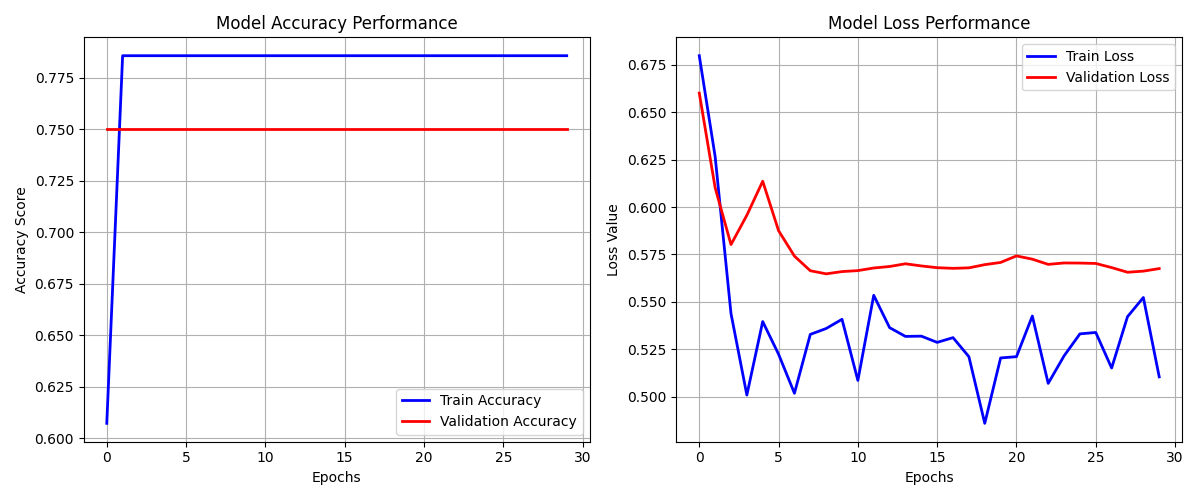
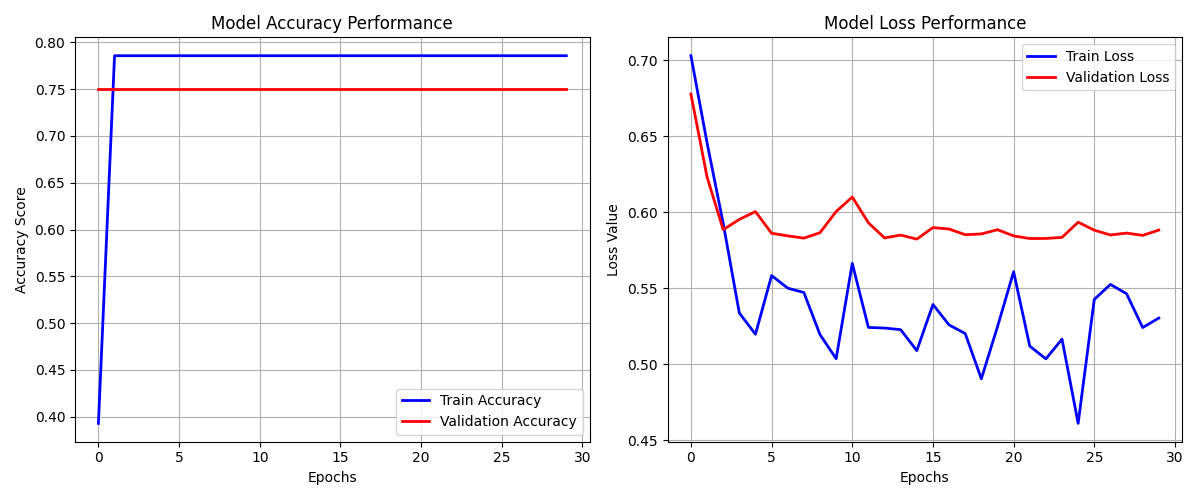
Test Phase

diff --git a/src/app.py b/src/app.py
@@ -1,0 +1,178 @@
+import os
+import cv2
+import numpy as np
+import tensorflow as tf
+import mediapipe as mp
+from collections import deque
+from mediapipe.tasks import python
+from mediapipe.tasks.python import vision
+
+# ----------------------------------------------------
+# PARAMETERS & UI CONFIGURATIONS
+# ----------------------------------------------------
+MAX_SEQUENCE_LENGTH = 100  # 100 frames sequence (approx. 4-5 seconds buffer)
+EAR_THRESHOLD = 0.23       # Threshold for closed eyes
+MAR_THRESHOLD = 0.45       # Threshold for yawning
+
+# MediaPipe Face Mesh Landmark Indices
+LEFT_EYE = [362, 385, 387, 263, 373, 380]
+RIGHT_EYE = [33, 160, 158, 133, 153, 144]
+MOUTH = [13, 14, 78, 308, 81, 178, 82, 311]
+
+# ----------------------------------------------------
+# FEATURE CALCULATION FUNCTIONS
+# ----------------------------------------------------
+def calculate_ear(landmarks, eye_indices):
+    points = []
+    for idx in eye_indices:
+        lm = landmarks[idx]
+        points.append(np.array([lm.x, lm.y]))
+    A = np.linalg.norm(points[1] - points[5])
+    B = np.linalg.norm(points[2] - points[4])
+    C = np.linalg.norm(points[0] - points[3])
+    return (A + B) / (2.0 * C)
+
+def calculate_mar(landmarks, mouth_indices):
+    points = []
+    for idx in mouth_indices:
+        lm = landmarks[idx]
+        points.append(np.array([lm.x, lm.y]))
+    v_dist = np.linalg.norm(points[0] - points[1])
+    h_dist = np.linalg.norm(points[2] - points[3])
+    return v_dist / h_dist
+
+# ----------------------------------------------------
+# MAIN REAL-TIME MONITORING INTERFACE
+# ----------------------------------------------------
+def main():
+    script_dir = os.path.dirname(os.path.abspath(__file__))
+    
+    # 1. Load the Pre-Trained LSTM Brain (.h5 model weights)
+    # Check for both standard name or placeholder abc.h5
+    model_path = os.path.join(script_dir, "../models/drowsiness_lstm_model.h5")
+    if not os.path.exists(model_path):
+        model_path = os.path.join(script_dir, "../models/abc.h5") # Fallback placeholder
+        
+    if not os.path.exists(model_path):
+        print(f"Error: Trained model weights file not found at models folder!")
+        return
+        
+    model = tf.keras.models.load_model(model_path)
+    print(f"SUCCESS: Deep Learning LSTM Engine Loaded from: {os.path.basename(model_path)}")
+
+    # 2. Configure Modern MediaPipe Face Mesh Options
+    task_model_path = os.path.join(script_dir, "face_landmarker.task")
+    base_options = python.BaseOptions(model_asset_path=task_model_path)
+    options = vision.FaceLandmarkerOptions(
+        base_options=base_options,
+        output_face_blendshapes=False,
+        output_facial_transformation_matrixes=False,
+        num_faces=1
+    )
+
+    # 3. Setup Rolling Memory Queue Buffer
+    frame_buffer = deque(maxlen=MAX_SEQUENCE_LENGTH)
+    
+    # Activate the primary computer webcam (0 = default internal camera)
+    cap = cv2.VideoCapture(0)
+    print("Webcam stream channel open. Launching UI overlay window...")
+
+    with vision.FaceLandmarker.create_from_options(options) as landmarker:
+        while cap.isOpened():
+            ret, frame = cap.read()
+            if not ret:
+                break
+
+            # Mirror-flip the screen frame for a natural selfie perspective
+            frame = cv2.flip(frame, 1)
+            h, w, _ = frame.shape
+
+            # 4. QR-Scanner Style Interface Calculations (Member 4 Task Focus)
+            # Define central bounding box coordinates for the face alignment
+            box_x1, box_y1 = int(w * 0.28), int(h * 0.18)
+            box_x2, box_y2 = int(w * 0.72), int(h * 0.82)
+            
+            # Default State Parameters
+            ui_color = (255, 255, 0)  # Cyan color for default scanning
+            status_text = "SCANNING PROFILE..."
+            
+            # Preprocess current frame for MediaPipe tracking
+            rgb_frame = cv2.cvtColor(frame, cv2.COLOR_BGR2RGB)
+            mp_image = mp.Image(image_format=mp.ImageFormat.SRGB, data=rgb_frame)
+            detection_result = landmarker.detect(mp_image)
+
+            if detection_result.face_landmarks:
+                landmarks = detection_result.face_landmarks[0]
+
+                # Extract live scalar numbers
+                left_ear = calculate_ear(landmarks, LEFT_EYE)
+                right_ear = calculate_ear(landmarks, RIGHT_EYE)
+                avg_ear = (left_ear + right_ear) / 2.0
+                mar = calculate_mar(landmarks, MOUTH)
+
+                # Push metrics to our live rolling buffer
+                frame_buffer.append([avg_ear, mar])
+
+                # 5. Continuous Inference Pipeline Logic
+                if len(frame_buffer) == MAX_SEQUENCE_LENGTH:
+                    # Convert rolling buffer queue to standard NumPy input tensor
+                    input_data = np.array(frame_buffer)
+                    input_data = np.expand_dims(input_data, axis=0)  # Shape becomes (1, 100, 2)
+
+                    # Predict probability outcome via Keras Engine
+                    prediction = model.predict(input_data, verbose=0)[0][0]
+
+                    # Smooth UI Transition depending on Model Output
+                    # Model prediction value validation ranges from 0.0 to 1.0
+                    if prediction < 0.35:
+                        ui_color = (0, 255, 0)      # Safe Green BGR
+                        status_text = "QUALITY: GOOD | STATUS: HIGHLY ACTIVE"
+                    elif 0.35 <= prediction <= 0.70:
+                        ui_color = (0, 255, 255)    # Warning Yellow BGR (0, 255, 255)
+                        status_text = "QUALITY: NORMAL | ALERT: MODERATE FATIGUE"
+                    else:
+                        ui_color = (0, 0, 255)      # Critical Danger Red BGR
+                        status_text = "QUALITY: POOR | CRITICAL: HIGH DROWSINESS"
+                else:
+                    # Buffering State UI (First 5 seconds when camera turns on)
+                    progress = int((len(frame_buffer) / MAX_SEQUENCE_LENGTH) * 100)
+                    status_text = f"ANALYZING VEHICLE ENVIRONMENT... {progress}%"
+                    ui_color = (255, 191, 0)  # Yellow-Blue Warning shade
+
+                # Render numerical metrics clearly on screen corner
+                cv2.putText(frame, f"LIVE EAR: {avg_ear:.2f}", (30, 45), cv2.FONT_HERSHEY_SIMPLEX, 0.6, (255, 255, 255), 2)
+                cv2.putText(frame, f"LIVE MAR: {mar:.2f}", (30, 75), cv2.FONT_HERSHEY_SIMPLEX, 0.6, (255, 255, 255), 2)
+            else:
+                status_text = "FACE PROFILE OUT OF FRAME"
+                ui_color = (0, 140, 255)  # Alert Orange color
+
+            # 6. UI Overlays Rendering (Drawing the components)
+            # Draw the Scanner Guide Rectangle box
+            cv2.rectangle(frame, (box_x1, box_y1), (box_x2, box_y2), ui_color, 2)
+            
+            # Corner design elements for the "QR-Scanner" look
+            corner_len = 25
+            # Top-Left Corner accents
+            cv2.line(frame, (box_x1, box_y1), (box_x1 + corner_len, box_y1), ui_color, 5)
+            cv2.line(frame, (box_x1, box_y1), (box_x1, box_y1 + corner_len), ui_color, 5)
+            # Bottom-Right Corner accents
+            cv2.line(frame, (box_x2, box_y2), (box_x2 - corner_len, box_y2), ui_color, 5)
+            cv2.line(frame, (box_x2, box_y2), (box_x2, box_y2 - corner_len), ui_color, 5)
+
+            # Bottom Status Bar banner block panel
+            cv2.rectangle(frame, (0, h - 50), (w, h), ui_color, cv2.FILLED)
+            cv2.putText(frame, status_text, (20, h - 18), cv2.FONT_HERSHEY_SIMPLEX, 0.65, (0, 0, 0), 2)
+
+            # Display the interactive final rendering output
+            cv2.imshow("Real-Time Sleep Quality Scanner Dashboard", frame)
+
+            # Press Keyboard key 'q' anytime to safely kill camera stream pipeline
+            if cv2.waitKey(1) & 0xFF == ord('q'):
+                break
+
+    cap.release()
+    cv2.destroyAllWindows()
+    print("Webcam device pipeline closed safely.")
+
+if __name__ == "__main__":
+    main()

diff --git a/src/train.py b/src/train.py
@@ -1,0 +1,144 @@
+import os
+import numpy as np
+from sklearn.model_selection import train_test_split
+import keras
+from keras.utils import pad_sequences
+from keras.models import Sequential
+from keras.layers import LSTM, Dense, Dropout
+import matplotlib.pyplot as plt  # New import for validation curves
+
+
+# Configurable constants
+DATA_DIR = "data/processed"
+MAX_SEQUENCE_LENGTH = 100  # Normalizing all video inputs to 100 frames
+
+
+def load_and_preprocess_data():
+    X = []
+    y = []
+   
+    categories = {'active': 0, 'sleepy': 1}
+   
+    for category, label in categories.items():
+        category_path = os.path.join(DATA_DIR, category)
+       
+        if not os.path.exists(category_path):
+            print(f"Warning: Folder {category_path} not found. Skipping.")
+            continue
+           
+        for file_name in os.listdir(category_path):
+            if file_name.endswith('.npy'):
+                file_path = os.path.join(category_path, file_name)
+               
+                # Load the mathematical sequence (shape: [num_frames, 2])
+                sequence = np.load(file_path)
+               
+                X.append(sequence)
+                y.append(label)
+               
+    if len(X) == 0:
+        raise ValueError("No .npy data found! Please run preprocess.py first.")
+       
+    # Sequence Padding (Post padding with zeros if sequence is short)
+    X_padded = pad_sequences(X, maxlen=MAX_SEQUENCE_LENGTH, padding='post', dtype='float32')
+    y = np.array(y)
+   
+    print(f"Total samples loaded: {len(X_padded)}")
+    print(f"Shape of X after padding: {X_padded.shape}")  # Expected: (samples, 100, 2)
+   
+    # Train-Test Split (80% Train, 20% Test)
+    X_train, X_test, y_train, y_test = train_test_split(X_padded, y, test_size=0.2, random_state=42, stratify=y)
+   
+    return X_train, X_test, y_train, y_test
+
+
+def build_lstm_model(input_shape):
+    """
+    Designs the LSTM Network Layout (The Brain)
+    """
+    model = Sequential([
+        # LSTM Layer 1: Captures temporal sequence of EAR/MAR
+        LSTM(units=64, input_shape=input_shape, return_sequences=True),
+        Dropout(0.2),  # Prevents overfitting
+       
+        # LSTM Layer 2: Deeper understanding of patterns over time
+        LSTM(units=32, return_sequences=False),
+        Dropout(0.2),
+       
+        # Dense Layers for classification logic simplify
+        Dense(units=16, activation='relu'),
+       
+        # Output Layer: Sigmoid gives probability between 0 (Active) and 1 (Sleepy)
+        Dense(units=1, activation='sigmoid')
+    ])
+   
+    # Compile the model
+    model.compile(
+        optimizer='adam',
+        loss='binary_crossentropy',
+        metrics=['accuracy']
+    )
+   
+    return model
+
+
+if __name__ == "__main__":
+    # Step 1: Load and split data in RAM
+    X_train, X_test, y_train, y_test = load_and_preprocess_data()
+   
+    # Step 2: Build the Network Layout
+    input_shape = (X_train.shape[1], X_train.shape[2]) # (100, 2)
+    model = build_lstm_model(input_shape)
+   
+    print("\n--- LSTM Model Structure Summary ---")
+    model.summary()
+   
+    # Step 3: Start Real Training on RAM
+    print("\nStarting Model Training...")
+    history = model.fit(
+        X_train, y_train,
+        validation_data=(X_test, y_test),
+        epochs=30,          # Loop tracker over dataset
+        batch_size=4,       # Best for 36 samples
+        verbose=1
+    )
+   
+    # Step 4: Save permanently to Hard Disk!
+    os.makedirs("models", exist_ok=True)
+    model_save_path = "models/drowsiness_lstm_model.h5"
+    model.save(model_save_path)
+    print(f"\nSUCCESS!!! Trained model permanently saved at: {model_save_path}")
+   
+    # Step 5: Plot Accuracy and Loss Curves (Validation Curve mapping)
+    print("\nPlotting Accuracy and Loss curves...")
+    os.makedirs("plots", exist_ok=True)
+   
+    plt.figure(figsize=(12, 5))
+   
+    # Plotting Accuracy trends
+    plt.subplot(1, 2, 1)
+    plt.plot(history.history['accuracy'], label='Train Accuracy', color='blue', linewidth=2)
+    plt.plot(history.history['val_accuracy'], label='Validation Accuracy', color='red', linewidth=2)
+    plt.title('Model Accuracy Performance')
+    plt.xlabel('Epochs')
+    plt.ylabel('Accuracy Score')
+    plt.legend()
+    plt.grid(True)
+   
+    # Plotting Loss trends
+    plt.subplot(1, 2, 2)
+    plt.plot(history.history['loss'], label='Train Loss', color='blue', linewidth=2)
+    plt.plot(history.history['val_loss'], label='Validation Loss', color='red', linewidth=2)
+    plt.title('Model Loss Performance')
+    plt.xlabel('Epochs')
+    plt.ylabel('Loss Value')
+    plt.legend()
+    plt.grid(True)
+   
+    # Save image file to directory
+    plot_save_path = "plots/training_performance.png"
+    plt.tight_layout()
+    plt.savefig(plot_save_path)
+    plt.close()
+   
+    print(f"SUCCESS!!! Performance curves saved at: {plot_save_path}")

diff --git a/README.md b/README.md
@@ -1,0 +1,38 @@
+# Real-Time Driver Sleep Quality & Fatigue Detection System
+
+An advanced, decoupled two-stage Deep Learning pipeline that continuously monitors live camera stream inputs to evaluate a vehicle driver's fatigue indexes, alerting against micro-sleep scenarios in real-time.
+
+---
+
+## 🛠️ System Architecture Diagram Overview
+
+The application architecture isolates high-dimensional raw pixel tracking workloads from the core sequence classification engine to achieve high computational efficiency.
+
+1. **Stage 1 (Feature Transformation Layer):** High-resolution RGB video matrices from the webcam are intercepted by the **Google MediaPipe Tasks API**. It tracks 3D sub-pixel facial meshes and calculates normalized mathematical scalars: **Eye Aspect Ratio (EAR)** and **Mouth Aspect Ratio (MAR)**.
+2. **Stage 2 (Temporal Sequence Classifier):** These compressed coordinates are stored into a rolling 100-frame First-In-First-Out (FIFO) queue (`collections.deque`) and fed directly into a trained **Sequential LSTM (Long Short-Term Memory)** network to predict driver state.
+
+---
+
+## 📦 Project Directory Layout
+
+```text
+Sleep-Quality-Detection/
+│   requirements.txt       # Exact system software package dependencies
+│   README.md              # Project layout and installation manual
+│   struc.txt              # Folder structural integrity log
+│   
+├───data/
+│   ├───processed/         # Pre-extracted spatial scalar matrices (.npy)
+│   └───raw/               # Baseline multi-class video datasets (.mp4)
+│
+├───models/
+│   └───drowsiness_lstm_model.h5   # Saved weights of the trained LSTM brain
+│
+├───plots/
+│   └───training_performance.png   # Train/Validation Accuracy and Loss curve plots
+│
+└───src/
+    ├───app.py             # Final Live UI "QR-Scanner" style Application
+    ├───preprocess.py      # Feature extraction automation engine
+    ├───train.py           # Deep Learning architecture compilation script
+    └───face_landmarker.task  # Pre-compiled Google MediaPipe model weights